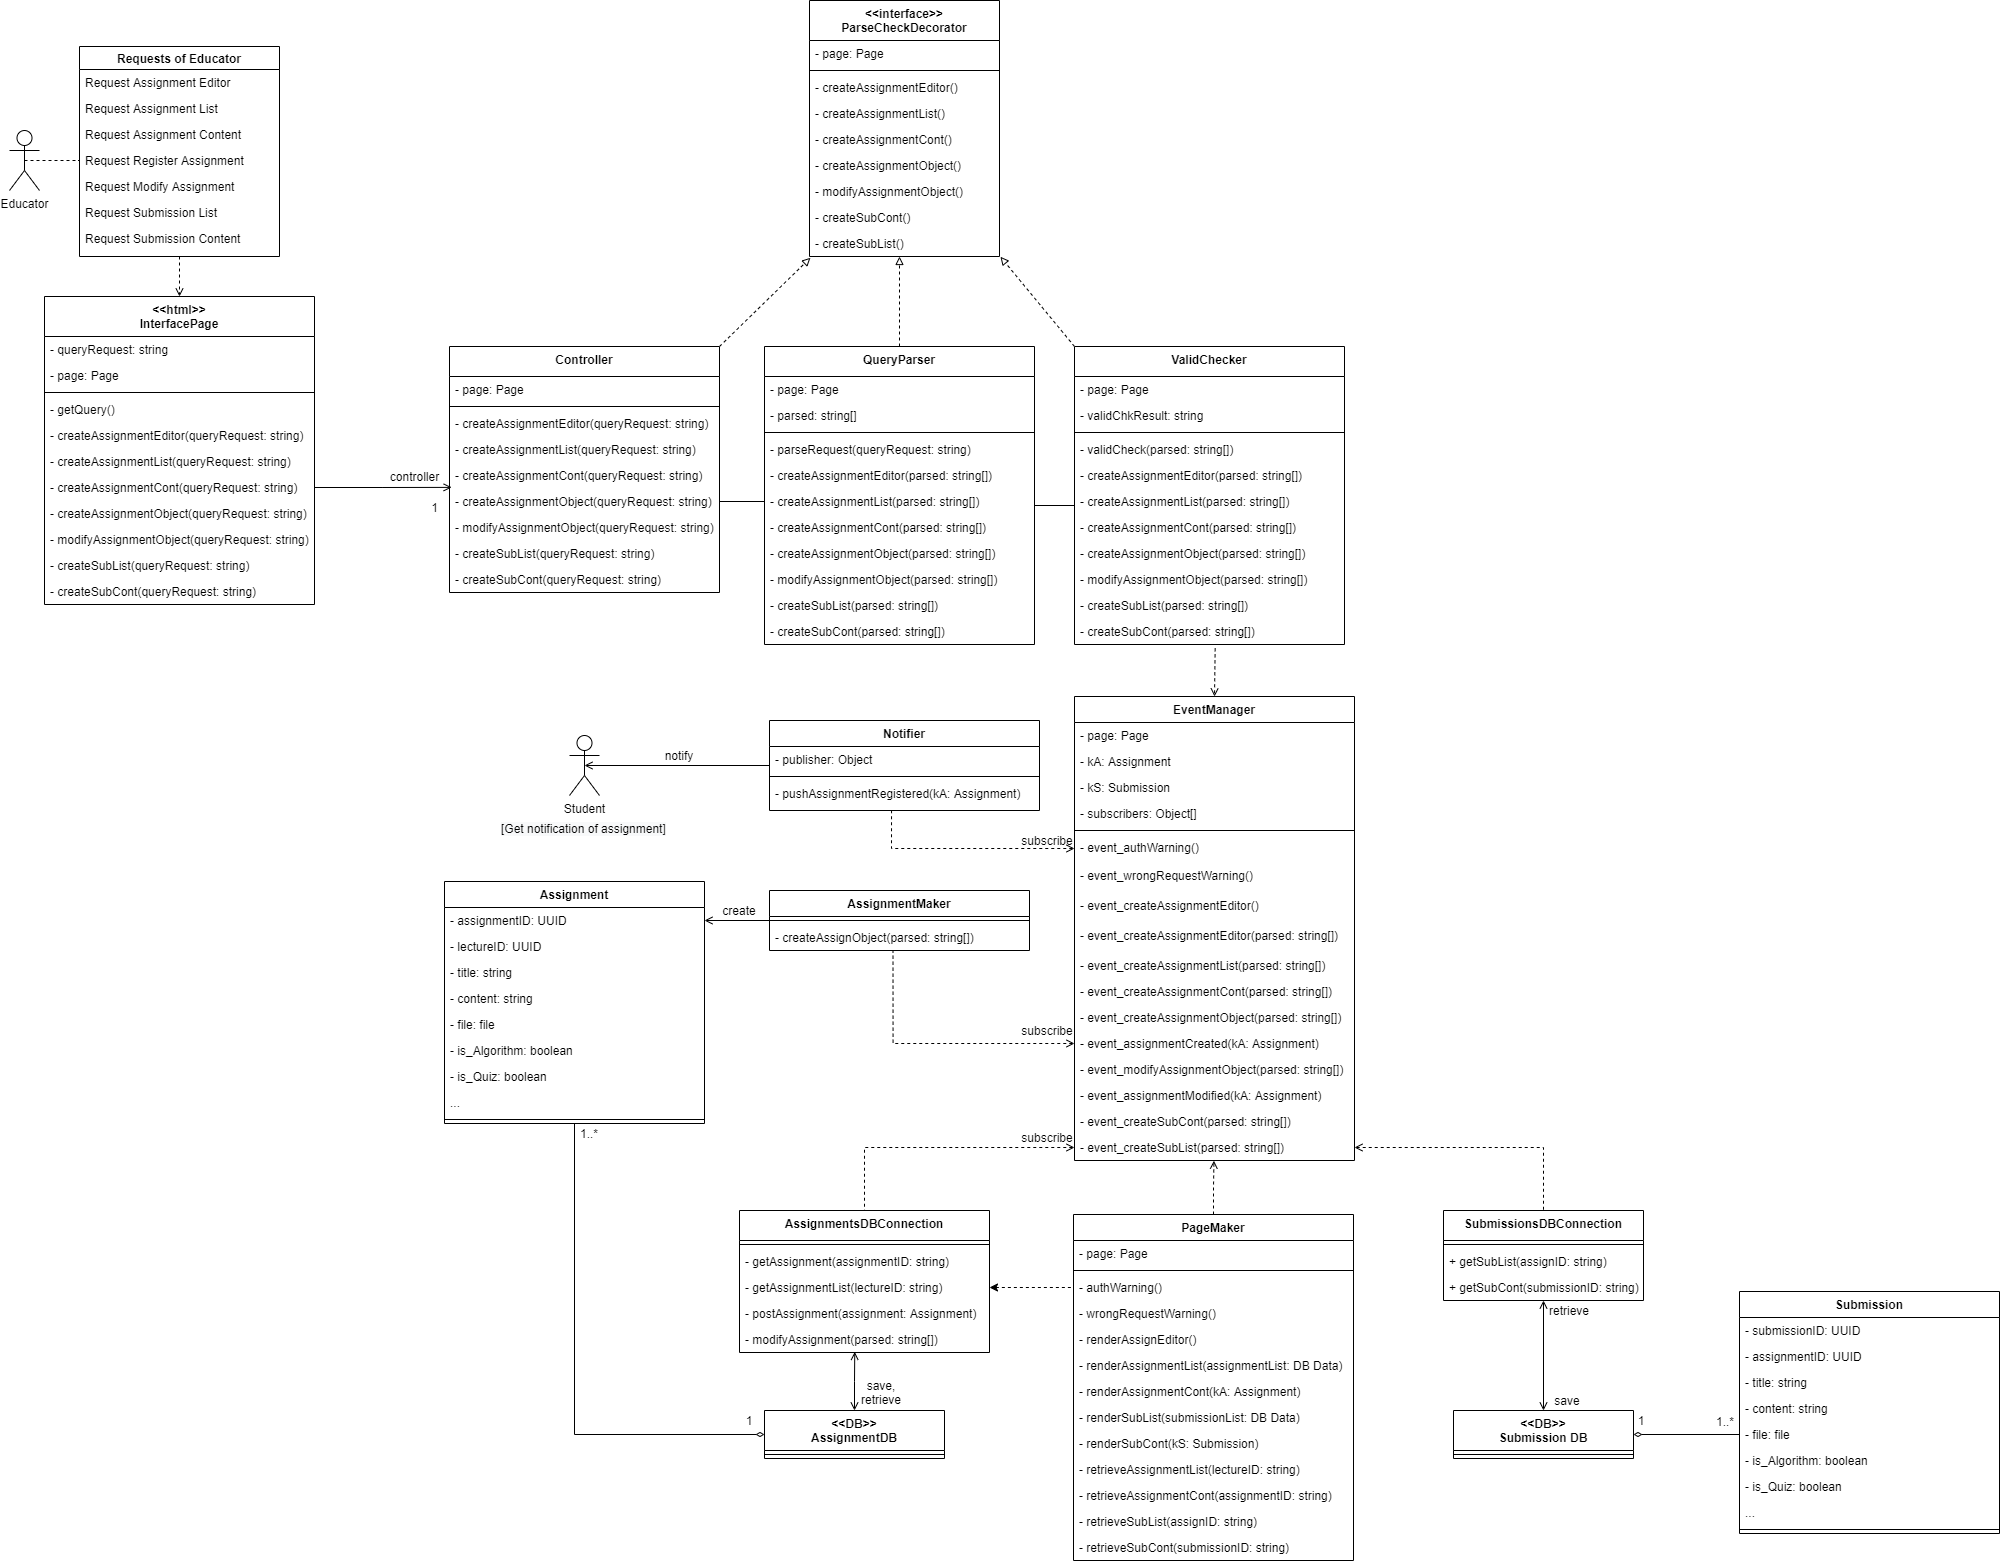
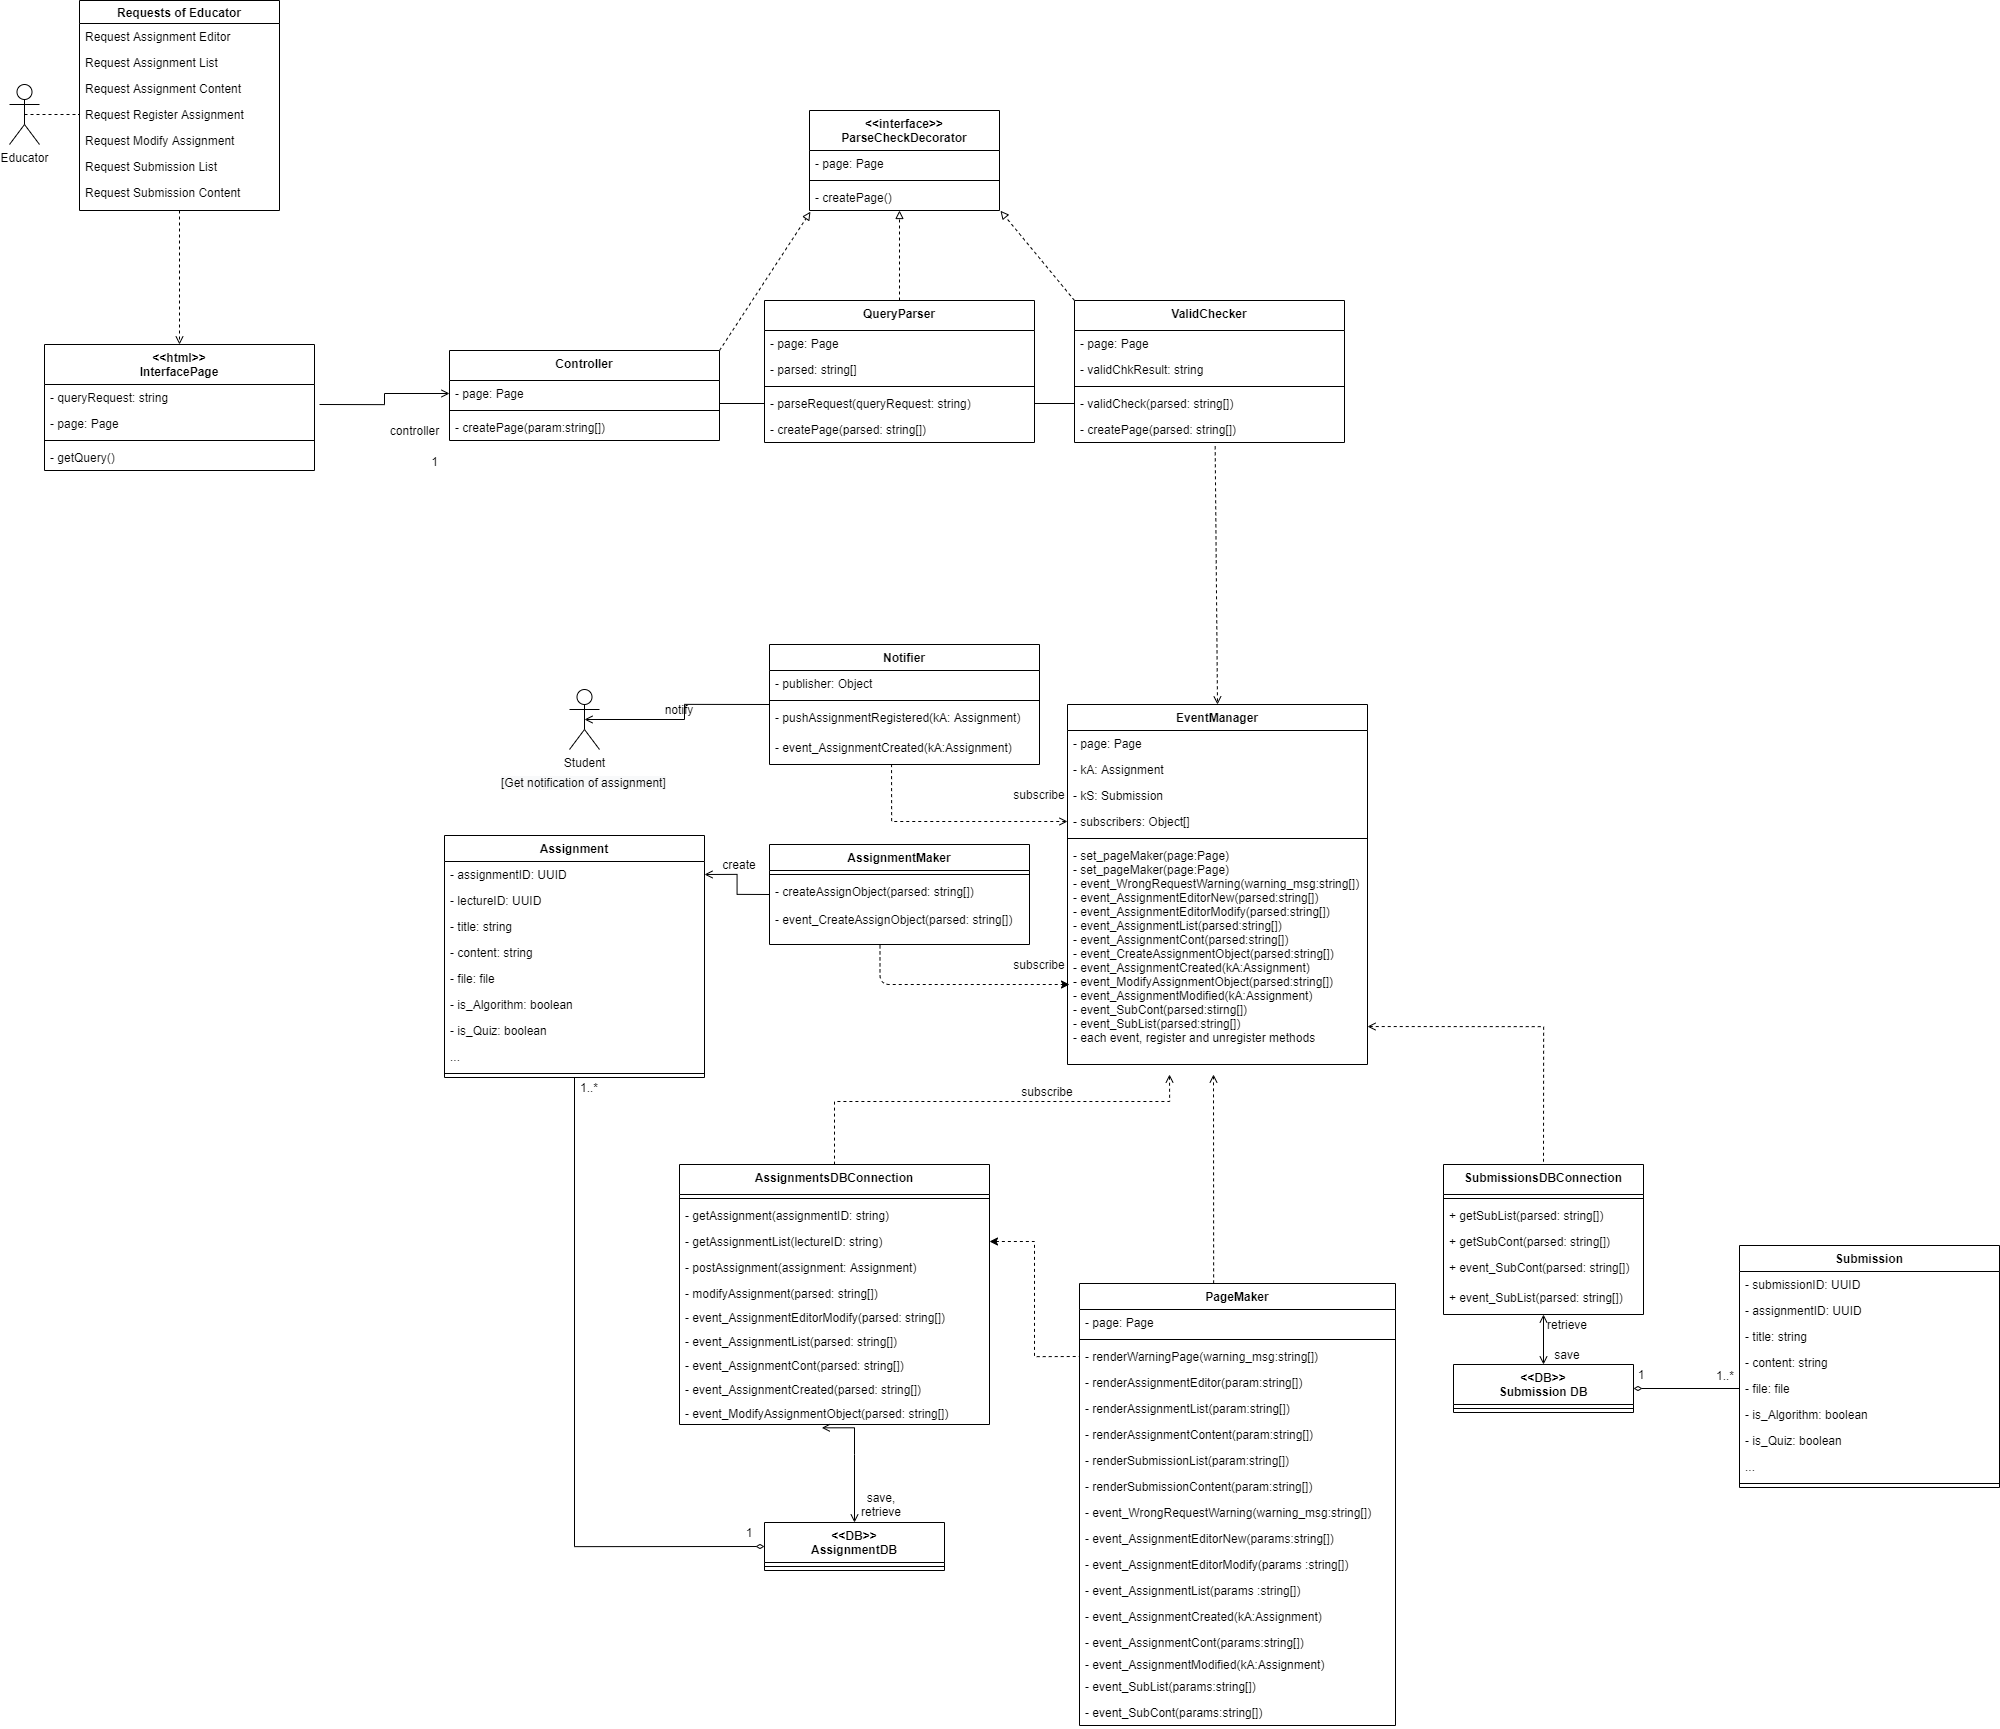
Module1/Testcase 추가, class diagram 수정

diff --git a/Implement and Testing/Module1_Educator/Test/TC-9.md b/Implement and Testing/Module1_Educator/Test/TC-9.md
@@ -1,0 +1,51 @@
+---
+
+---
+
+#### Test-case Identifier: TC-8
+
+#### Use Case Tested: UC 공통, sub success scenario
+
+#### Pass/fail Criteria: 콘솔을 통해 쿼리를 입력했을 때 쿼리에 해당하는 페이지 출력
+
+#### Input Data: Request?Author&classID&assignmentID
+
+ex) SubmissionList?auth=educator&class=10&assignment=1
+
+------
+
+#### Test Procedure:
+
+Step 1. Type in more body.
+
+ex)AssignmentList?auth=educator&class=10&assignment=1
+
+Expected Result: 필요 이상의 body가 입력되었음을 시스템이 감지하고 body가 너무 많다는 경고 메시지 출력
+
+Result:
+
+![TC-9 step1](https://user-images.githubusercontent.com/51692363/120173369-ee7f1980-c23e-11eb-86e2-1a7610732653.JPG)
+
+Step 2. Type in incorrect query format
+
+ex)asdczmxnjknad;
+
+Expected Result: classID 형식이 잘못되었음을 시스템이 인지하고, 잘못된 쿼리 라는 경고 메시지 생성 및 출력
+
+Result:
+
+![TC-9 step2](https://user-images.githubusercontent.com/51692363/120173591-1ec6b800-c23f-11eb-8d14-46d0120ce00d.JPG)
+
+
+
+
+
+------
+
+#### 
+
+#### Failed: Step1, Step2
+
+불필요한 body가 입력되었음에도 오류로 인식못함.
+
+쿼리가 잘못된 형식이 들어오면 작동이 안되고 프로그램이 터짐.

diff --git a/Implement and Testing/Module1_Educator/Test/TC-4.md b/Implement and Testing/Module1_Educator/Test/TC-4.md
@@ -46,6 +46,8 @@ Result:
 
 ![TC-4 step3](https://user-images.githubusercontent.com/51692363/120154633-0a78c000-c22b-11eb-92a9-b2ef6f95c607.JPG)
 
+
+
 Step 4. Type in a correct classID and valid other input datas
 
 ex)AssignmentList?auth=educator&class=10
@@ -63,3 +65,4 @@ Result:
 #### Failed: Step2, Step3
 
 classID의 형식과 범위가 잘못된 것을 오류로 인식못함.
+
